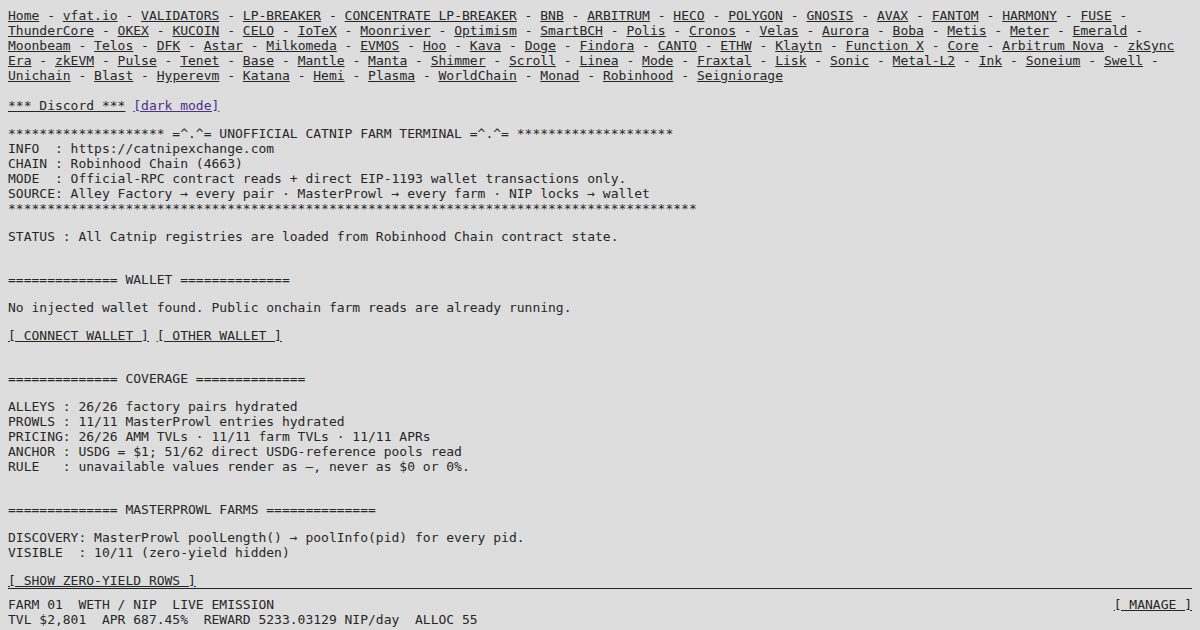
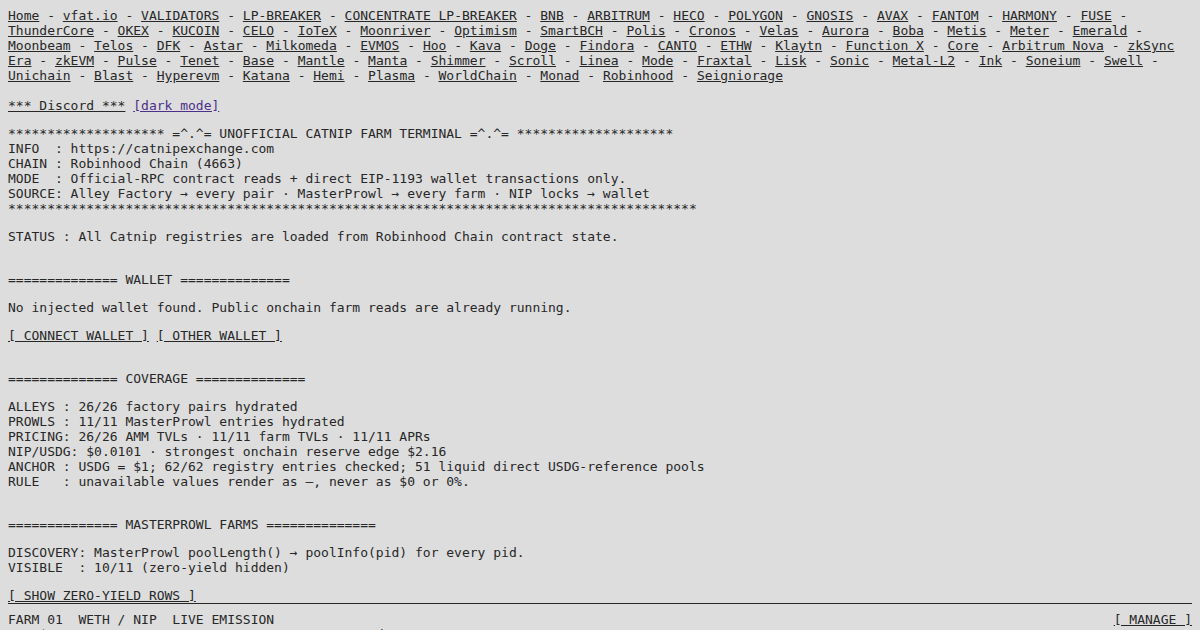
Show Catnip price and use exact approvals

Changed region(s): [[0.0, 0.6937, 0.5858, 0.9952], [0.925, 0.9349, 1.0, 0.9952]]

diff --git a/src/js/robinhood_catnip.js b/src/js/robinhood_catnip.js
@@ -53,12 +53,11 @@ const Catnip = (function () {
   const v3PoolAbi = ['function token0() view returns(address)', 'function token1() view returns(address)', 'function slot0() view returns(uint160 sqrtPriceX96,int24 tick,uint16 observationIndex,uint16 observationCardinality,uint16 observationCardinalityNext,bool unlocked)', 'function liquidity() view returns(uint128)']
   const multicallAbi = ['function aggregate3((address target,bool allowFailure,bytes callData)[] calls) view returns((bool success,bytes returnData)[])']
   const zero = ethers.constants.AddressZero
-  const maxUint = ethers.constants.MaxUint256
   const reownProjectId = process.env.REOWN_PROJECT_ID || '3e6154a7158ff5f7509f24405fc3b551'
   const state = {
     app: null, rpc: null, wallet: null, eip1193: null, walletSource: null, account: null, walletChain: null,
     pairs: [], farms: [], pricePools: [], tokens: new Map(), prices: new Map(), priceConfidence: new Map(),
-    factoryTotal: null, farmTotal: null, pricePoolTotal: null, feeBps: null, schedule: null,
+    factoryTotal: null, farmTotal: null, pricePoolTotal: null, priceReferenceDone: false, feeBps: null, schedule: null,
     selectedPair: null, selectedFarm: null, showZero: false, draft: {},
     loadingRegistry: false, loadingMarket: false, loadingWallet: false, sending: false, message: '', messageType: '',
     spinnerTimer: null, spinnerIndex: 0, eventsBound: false, reownUnsubscribe: null,
@@ -266,6 +265,7 @@ const Catnip = (function () {
     // indexer, token list, or quote router is used.
     try {
       const voterInterface = iface(voterAbi); const poolInterface = iface(v3PoolAbi)
+      state.priceReferenceDone = false
       const length = (await batch([{ target: addresses.priceVoter, iface: voterInterface, method: 'length', fallback: null }]))[0]
       if (length === null) throw new Error('USDG price-reference registry unavailable')
       state.pricePoolTotal = numeric(length)
@@ -300,6 +300,7 @@ const Catnip = (function () {
         state.pricePools = state.pricePools.concat(group.filter(function (pool) { return pool.ready }))
         computeMarket(); render()
       })
+      state.priceReferenceDone = true
     } catch (error) {
       state.priceError = errorText(error)
       // The farm table remains useful even when the optional dollar anchor is
@@ -493,27 +494,91 @@ const Catnip = (function () {
     if (!allowZero && parsed.lte(0)) throw new Error(label + ' must be greater than zero.')
     return parsed
   }
-  async function approve (asset, spender, label) { return send(asset, iface(erc20Abi), 'approve', [spender, maxUint], label) }
+  function enough (available, required) {
+    try { return available !== undefined && available !== null && ethers.BigNumber.from(available).gte(required) } catch (_) { return false }
+  }
+  function needBalance (available, required, info, purpose) {
+    if (!enough(available, required)) throw new Error('Insufficient ' + info.symbol + ' balance for ' + purpose + '.')
+  }
+  function needAllowance (available, required, info, purpose) {
+    if (!enough(available, required)) throw new Error('Approve the exact typed ' + info.symbol + ' amount for ' + purpose + ' first.')
+  }
+  function needApproval (available, required, info, purpose) {
+    if (enough(available, required)) throw new Error('Current ' + info.symbol + ' allowance already covers the typed ' + purpose + ' amount.')
+  }
+  function selectedWallet () {
+    const wallet = state.walletState && state.walletState.selected
+    if (!wallet) throw new Error('Wallet balances and allowances are still loading. Refresh the wallet and retry.')
+    return wallet
+  }
+  async function approveExact (asset, spender, amount, info, purpose) {
+    return send(asset, iface(erc20Abi), 'approve', [spender, amount], 'approve exactly ' + format(amount, info.decimals) + ' ' + info.symbol + ' for ' + purpose)
+  }
+  async function approveAddToken (side) {
+    const pair = state.selectedPair; if (!pair || !pair.ready) throw new Error('Choose a loaded Alley pair first.')
+    const wallet = selectedWallet(); const info = token(side === 0 ? pair.token0 : pair.token1); const key = side === 0 ? 'add0' : 'add1'
+    const amount = parseDraft(key, info, info.symbol + ' desired')
+    needBalance(side === 0 ? wallet.balance0 : wallet.balance1, amount, info, 'add liquidity')
+    needApproval(side === 0 ? wallet.allowance0 : wallet.allowance1, amount, info, 'add-liquidity')
+    return approveExact(side === 0 ? pair.token0 : pair.token1, addresses.router, amount, info, 'Alley Router add liquidity')
+  }
+  async function approveRemoveLp () {
+    const pair = state.selectedPair; if (!pair || !pair.ready) throw new Error('Choose a loaded Alley pair first.')
+    const wallet = selectedWallet(); const info = { symbol: 'LP', decimals: 18 }; const amount = parseDraft('removeLp', info, 'LP amount')
+    needBalance(state.walletPairs.get(lower(pair.address)), amount, info, 'remove liquidity'); needApproval(wallet.allowanceRouterLp, amount, info, 'remove-liquidity')
+    return approveExact(pair.address, addresses.router, amount, info, 'Alley Router remove liquidity')
+  }
+  async function approveStakeLp () {
+    const pair = state.selectedPair; const farm = state.selectedFarm
+    if (!pair || !pair.ready || !farm || lower(farm.lpToken) !== lower(pair.address)) throw new Error('Choose a MasterProwl Alley pair first.')
+    const wallet = selectedWallet(); const info = { symbol: 'LP', decimals: 18 }; const amount = parseDraft('stakeLp', info, 'LP deposit')
+    needBalance(state.walletPairs.get(lower(pair.address)), amount, info, 'stake LP'); needApproval(wallet.allowanceProwlLp, amount, info, 'LP-stake')
+    return approveExact(pair.address, addresses.prowl, amount, info, 'MasterProwl stake')
+  }
+  async function approveCacheNip () {
+    const info = token(addresses.nip); const wallet = state.walletState || {}; const amount = parseDraft('cacheNip', info, 'NIP to stake')
+    needBalance(wallet.nip, amount, info, 'Cache stake'); needApproval(wallet.cacheAllowance, amount, info, 'Cache-stake')
+    return approveExact(addresses.nip, addresses.cache, amount, info, 'Cache stake')
+  }
   async function addLiquidity () {
     const pair = state.selectedPair; if (!pair || !pair.ready) throw new Error('Choose a loaded Alley pair first.')
-    const token0 = token(pair.token0); const token1 = token(pair.token1)
+    const wallet = selectedWallet(); const token0 = token(pair.token0); const token1 = token(pair.token1)
     const amount0 = parseDraft('add0', token0, token0.symbol + ' desired'); const amount1 = parseDraft('add1', token1, token1.symbol + ' desired')
     const minimum0 = String(state.draft.min0 || '').trim() ? parseDraft('min0', token0, token0.symbol + ' minimum', true) : ethers.constants.Zero
     const minimum1 = String(state.draft.min1 || '').trim() ? parseDraft('min1', token1, token1.symbol + ' minimum', true) : ethers.constants.Zero
+    needBalance(wallet.balance0, amount0, token0, 'add liquidity'); needBalance(wallet.balance1, amount1, token1, 'add liquidity')
+    needAllowance(wallet.allowance0, amount0, token0, 'add liquidity'); needAllowance(wallet.allowance1, amount1, token1, 'add liquidity')
     await send(addresses.router, iface(routerAbi), 'addLiquidity', [pair.token0, pair.token1, amount0, amount1, minimum0, minimum1, state.account, deadline()], 'add liquidity')
   }
   async function removeLiquidity () {
     const pair = state.selectedPair; if (!pair || !pair.ready) throw new Error('Choose a loaded Alley pair first.')
-    const token0 = token(pair.token0); const token1 = token(pair.token1); const liquidity = parseDraft('removeLp', { symbol: 'LP', decimals: 18 }, 'LP amount')
+    const wallet = selectedWallet(); const token0 = token(pair.token0); const token1 = token(pair.token1); const lp = { symbol: 'LP', decimals: 18 }; const liquidity = parseDraft('removeLp', lp, 'LP amount')
     const minimum0 = String(state.draft.removeMin0 || '').trim() ? parseDraft('removeMin0', token0, token0.symbol + ' minimum', true) : ethers.constants.Zero
     const minimum1 = String(state.draft.removeMin1 || '').trim() ? parseDraft('removeMin1', token1, token1.symbol + ' minimum', true) : ethers.constants.Zero
+    needBalance(state.walletPairs.get(lower(pair.address)), liquidity, lp, 'remove liquidity'); needAllowance(wallet.allowanceRouterLp, liquidity, lp, 'remove liquidity')
     await send(addresses.router, iface(routerAbi), 'removeLiquidity', [pair.token0, pair.token1, liquidity, minimum0, minimum1, state.account, deadline()], 'remove liquidity')
   }
-  async function stake () { const farm = state.selectedFarm; if (!farm) throw new Error('The selected pair is not a MasterProwl farm.'); await send(addresses.prowl, iface(prowlAbi), 'deposit', [farm.pid, parseDraft('stakeLp', { symbol: 'LP', decimals: 18 }, 'LP deposit'), zero], 'stake LP') }
-  async function withdraw () { const farm = state.selectedFarm; if (!farm) throw new Error('The selected pair is not a MasterProwl farm.'); await send(addresses.prowl, iface(prowlAbi), 'withdraw', [farm.pid, parseDraft('withdrawLp', { symbol: 'LP', decimals: 18 }, 'LP withdrawal'), zero], 'withdraw LP') }
+  async function stake () {
+    const pair = state.selectedPair; const farm = state.selectedFarm; if (!pair || !farm || lower(farm.lpToken) !== lower(pair.address)) throw new Error('The selected pair is not a MasterProwl farm.')
+    const wallet = selectedWallet(); const lp = { symbol: 'LP', decimals: 18 }; const amount = parseDraft('stakeLp', lp, 'LP deposit')
+    needBalance(state.walletPairs.get(lower(pair.address)), amount, lp, 'stake LP'); needAllowance(wallet.allowanceProwlLp, amount, lp, 'stake LP')
+    await send(addresses.prowl, iface(prowlAbi), 'deposit', [farm.pid, amount, zero], 'stake LP')
+  }
+  async function withdraw () {
+    const farm = state.selectedFarm; if (!farm) throw new Error('The selected pair is not a MasterProwl farm.')
+    const lp = { symbol: 'LP', decimals: 18 }; const amount = parseDraft('withdrawLp', lp, 'LP withdrawal'); const wallet = state.walletFarms.get(farm.pid)
+    needBalance(wallet && wallet.staked, amount, lp, 'withdraw LP'); await send(addresses.prowl, iface(prowlAbi), 'withdraw', [farm.pid, amount, zero], 'withdraw LP')
+  }
   async function claim () { const farm = state.selectedFarm; if (!farm) throw new Error('Choose a farm to claim.'); await send(addresses.prowl, iface(prowlAbi), 'claimReward', [farm.pid], 'claim NIP rewards') }
-  async function cacheEnter () { await send(addresses.cache, iface(cacheAbi), 'enter', [parseDraft('cacheNip', token(addresses.nip), 'NIP to stake')], 'stake NIP in Cache') }
-  async function cacheLeave () { await send(addresses.cache, iface(cacheAbi), 'leave', [parseDraft('cacheShares', { symbol: 'xNIP', decimals: 18 }, 'xNIP to unstake')], 'unstake Cache shares') }
+  async function cacheEnter () {
+    const info = token(addresses.nip); const wallet = state.walletState || {}; const amount = parseDraft('cacheNip', info, 'NIP to stake')
+    needBalance(wallet.nip, amount, info, 'Cache stake'); needAllowance(wallet.cacheAllowance, amount, info, 'Cache stake')
+    await send(addresses.cache, iface(cacheAbi), 'enter', [amount], 'stake NIP in Cache')
+  }
+  async function cacheLeave () {
+    const info = { symbol: 'xNIP', decimals: 18 }; const amount = parseDraft('cacheShares', info, 'xNIP to unstake'); const wallet = state.walletState || {}
+    needBalance(wallet.cacheShares, amount, info, 'unstake Cache'); await send(addresses.cache, iface(cacheAbi), 'leave', [amount], 'unstake Cache shares')
+  }
   async function unlock () { await send(addresses.nip, iface(nipAbi), 'unlock', [], 'unlock NIP rewards') }
 
   function selectPair (pair) {
@@ -536,8 +601,13 @@ const Catnip = (function () {
     const node = section('Coverage')
     const readyPairs = state.pairs.filter(function (pair) { return pair.ready }).length; const readyFarms = state.farms.filter(function (farm) { return farm.ready }).length
     const pricedPairs = state.pairs.filter(function (pair) { return finite(pair.tvlUsd) }).length; const pricedFarms = state.farms.filter(function (farm) { return finite(farm.tvlUsd) }).length; const aprFarms = state.farms.filter(function (farm) { return finite(farm.apr) }).length
-    const source = state.pricePoolTotal === null ? 'discovering USDG reference pools' : state.pricePools.length + '/' + state.pricePoolTotal + ' direct USDG-reference pools read'
-    node.appendChild(e('pre', { text: 'ALLEYS : ' + readyPairs + '/' + (state.factoryTotal === null ? '—' : state.factoryTotal) + ' factory pairs hydrated\nPROWLS : ' + readyFarms + '/' + (state.farmTotal === null ? '—' : state.farmTotal) + ' MasterProwl entries hydrated\nPRICING: ' + pricedPairs + '/' + readyPairs + ' AMM TVLs · ' + pricedFarms + '/' + readyFarms + ' farm TVLs · ' + aprFarms + '/' + readyFarms + ' APRs\nANCHOR : USDG = $1; ' + source + (state.priceError ? '\nANCHOR : unavailable — ' + state.priceError : '') + '\nRULE   : unavailable values render as —, never as $0 or 0%.\n' }))
+    const source = state.pricePoolTotal === null
+      ? 'discovering USDG reference pools'
+      : state.priceReferenceDone
+        ? state.pricePoolTotal + '/' + state.pricePoolTotal + ' registry entries checked; ' + state.pricePools.length + ' liquid direct USDG-reference pools'
+        : state.pricePools.length + '/' + state.pricePoolTotal + ' liquid direct USDG-reference pools hydrated'
+    const nipUsd = state.prices.get(lower(addresses.nip)); const nipEdgeLiquidity = state.priceConfidence.get(lower(addresses.nip))
+    node.appendChild(e('pre', { text: 'ALLEYS : ' + readyPairs + '/' + (state.factoryTotal === null ? '—' : state.factoryTotal) + ' factory pairs hydrated\nPROWLS : ' + readyFarms + '/' + (state.farmTotal === null ? '—' : state.farmTotal) + ' MasterProwl entries hydrated\nPRICING: ' + pricedPairs + '/' + readyPairs + ' AMM TVLs · ' + pricedFarms + '/' + readyFarms + ' farm TVLs · ' + aprFarms + '/' + readyFarms + ' APRs\nNIP/USDG: ' + money(nipUsd) + ' · strongest onchain reserve edge ' + money(nipEdgeLiquidity) + '\nANCHOR : USDG = $1; ' + source + (state.priceError ? '\nANCHOR : unavailable — ' + state.priceError : '') + '\nRULE   : unavailable values render as —, never as $0 or 0%.\n' }))
     return node
   }
   function renderFarms () {
@@ -572,22 +642,22 @@ const Catnip = (function () {
     const pair = state.selectedPair; const node = section('Direct wallet actions')
     if (!pair || !pair.ready) { node.appendChild(e('pre', { text: 'Choose an Alley pair after discovery finishes.' })); return node }
     const token0 = token(pair.token0); const token1 = token(pair.token1); const wallet = state.walletState && state.walletState.selected; const farm = state.selectedFarm; const farmWallet = farm && state.walletFarms.get(farm.pid)
-    node.appendChild(e('pre', { text: pairName(pair) + '\nPAIR  : ' + pair.address + '\nROUTER: ' + addresses.router + '\n' + (farm ? 'FARM  : MasterProwl #' + farm.pid + ' · deposit fee ' + (state.feeBps === null ? '—' : format(state.feeBps, 0) + ' bps') + '\n' : 'FARM  : This authoritative Alley pair is not in MasterProwl.\n') + 'PRE-FLIGHT: every write is first simulated with the exact eth_call transaction, then receipt-confirmed and refreshed.\n' }))
+    node.appendChild(e('pre', { text: pairName(pair) + '\nPAIR  : ' + pair.address + '\nROUTER: ' + addresses.router + '\n' + (farm ? 'FARM  : MasterProwl #' + farm.pid + ' · deposit fee ' + (state.feeBps === null ? '—' : format(state.feeBps, 0) + ' bps') + '\n' : 'FARM  : This authoritative Alley pair is not in MasterProwl.\n') + 'APPROVAL: every approval sets only the current typed amount; no unlimited approvals.\nPRE-FLIGHT: every write is first simulated with the exact eth_call transaction, then receipt-confirmed and refreshed.\n' }))
     const liquidity = e('div')
     liquidity.appendChild(e('pre', { text: 'ADD / INCREASE (uses wrapped WETH where the pair contains WETH; no hidden swap or router quote)\n' }))
     append(liquidity, field(token0.symbol + ' desired', 'add0', token0.symbol), field(token1.symbol + ' desired', 'add1', token1.symbol), field(token0.symbol + ' min', 'min0', token0.symbol), field(token1.symbol + ' min', 'min1', token1.symbol))
-    append(liquidity, e('pre', { text: 'Wallet: ' + format(wallet && wallet.balance0, token0.decimals) + ' ' + token0.symbol + ' · ' + format(wallet && wallet.balance1, token1.decimals) + ' ' + token1.symbol + '\n' }), action('Approve ' + token0.symbol, function () { return approve(pair.token0, addresses.router, 'approve ' + token0.symbol + ' for Alley Router') }, !state.account || !onChain()), document.createTextNode(' '), action('Approve ' + token1.symbol, function () { return approve(pair.token1, addresses.router, 'approve ' + token1.symbol + ' for Alley Router') }, !state.account || !onChain()), document.createTextNode(' '), action('Add liquidity', addLiquidity, !state.account || !onChain()))
+    append(liquidity, e('pre', { text: 'Wallet: ' + format(wallet && wallet.balance0, token0.decimals) + ' ' + token0.symbol + ' · ' + format(wallet && wallet.balance1, token1.decimals) + ' ' + token1.symbol + '\n' }), action('Approve typed ' + token0.symbol, function () { return approveAddToken(0) }, !state.account || !onChain()), document.createTextNode(' '), action('Approve typed ' + token1.symbol, function () { return approveAddToken(1) }, !state.account || !onChain()), document.createTextNode(' '), action('Add liquidity', addLiquidity, !state.account || !onChain()))
     liquidity.appendChild(e('pre', { text: '\nREMOVE / EXIT\n' })); append(liquidity, field('LP amount', 'removeLp', 'LP'), field(token0.symbol + ' min', 'removeMin0', token0.symbol), field(token1.symbol + ' min', 'removeMin1', token1.symbol))
-    append(liquidity, e('pre', { text: 'Wallet LP: ' + format(state.walletPairs.get(lower(pair.address)), 18) + ' · Router allowance: ' + format(wallet && wallet.allowanceRouterLp, 18) + '\n' }), action('Approve LP for router', function () { return approve(pair.address, addresses.router, 'approve LP for Alley Router') }, !state.account || !onChain()), document.createTextNode(' '), action('Remove liquidity', removeLiquidity, !state.account || !onChain()))
+    append(liquidity, e('pre', { text: 'Wallet LP: ' + format(state.walletPairs.get(lower(pair.address)), 18) + ' · Router allowance: ' + format(wallet && wallet.allowanceRouterLp, 18) + '\n' }), action('Approve typed LP for router', approveRemoveLp, !state.account || !onChain()), document.createTextNode(' '), action('Remove liquidity', removeLiquidity, !state.account || !onChain()))
     node.appendChild(liquidity)
     if (farm) {
       const prowl = e('div'); prowl.appendChild(e('pre', { text: '\nMASTERPROWL / FARM\n' })); append(prowl, field('Deposit LP', 'stakeLp', 'LP'), field('Withdraw LP', 'withdrawLp', 'LP'))
-      append(prowl, e('pre', { text: 'Your stake: ' + format(farmWallet && farmWallet.staked, 18) + ' LP · Earned: ' + format(farmWallet && farmWallet.pending, token(addresses.nip).decimals) + ' NIP · Prowl allowance: ' + format(wallet && wallet.allowanceProwlLp, 18) + '\n' }), action('Approve LP for Prowl', function () { return approve(pair.address, addresses.prowl, 'approve LP for MasterProwl') }, !state.account || !onChain()), document.createTextNode(' '), action('Stake LP', stake, !state.account || !onChain()), document.createTextNode(' '), action('Withdraw LP', withdraw, !state.account || !onChain()), document.createTextNode(' '), action('Claim NIP', claim, !state.account || !onChain()))
+      append(prowl, e('pre', { text: 'Your stake: ' + format(farmWallet && farmWallet.staked, 18) + ' LP · Earned: ' + format(farmWallet && farmWallet.pending, token(addresses.nip).decimals) + ' NIP · Prowl allowance: ' + format(wallet && wallet.allowanceProwlLp, 18) + '\n' }), action('Approve typed LP for Prowl', approveStakeLp, !state.account || !onChain()), document.createTextNode(' '), action('Stake LP', stake, !state.account || !onChain()), document.createTextNode(' '), action('Withdraw LP', withdraw, !state.account || !onChain()), document.createTextNode(' '), action('Claim NIP', claim, !state.account || !onChain()))
       node.appendChild(prowl)
     }
     const cache = e('div'); const walletState = state.walletState || {}
     cache.appendChild(e('pre', { text: '\nNIP LOCKS + CACHE\nWallet NIP: ' + format(walletState.nip, 18) + ' · Locked rewards: ' + format(walletState.locked, 18) + ' · Unlockable now: ' + format(walletState.unlockable, 18) + '\nCache: ' + format(walletState.cacheShares, 18) + ' xNIP shares backed by ' + format(walletState.cacheNip, 18) + ' NIP\n' }))
-    append(cache, field('Stake NIP', 'cacheNip', 'NIP'), field('Unstake xNIP', 'cacheShares', 'xNIP'), action('Approve NIP for Cache', function () { return approve(addresses.nip, addresses.cache, 'approve NIP for Cache') }, !state.account || !onChain()), document.createTextNode(' '), action('Stake in Cache', cacheEnter, !state.account || !onChain()), document.createTextNode(' '), action('Unstake Cache', cacheLeave, !state.account || !onChain()), document.createTextNode(' '), action('Unlock NIP', unlock, !state.account || !onChain()))
+    append(cache, field('Stake NIP', 'cacheNip', 'NIP'), field('Unstake xNIP', 'cacheShares', 'xNIP'), action('Approve typed NIP for Cache', approveCacheNip, !state.account || !onChain()), document.createTextNode(' '), action('Stake in Cache', cacheEnter, !state.account || !onChain()), document.createTextNode(' '), action('Unstake Cache', cacheLeave, !state.account || !onChain()), document.createTextNode(' '), action('Unlock NIP', unlock, !state.account || !onChain()))
     node.appendChild(cache); return node
   }
   function render () {
